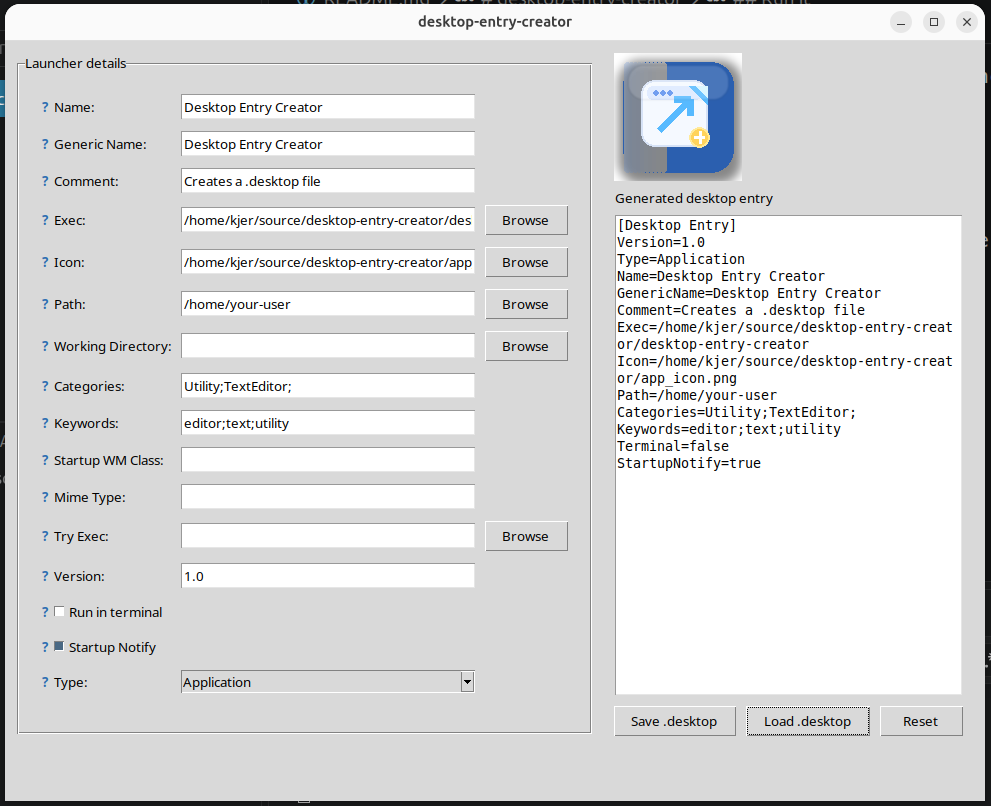
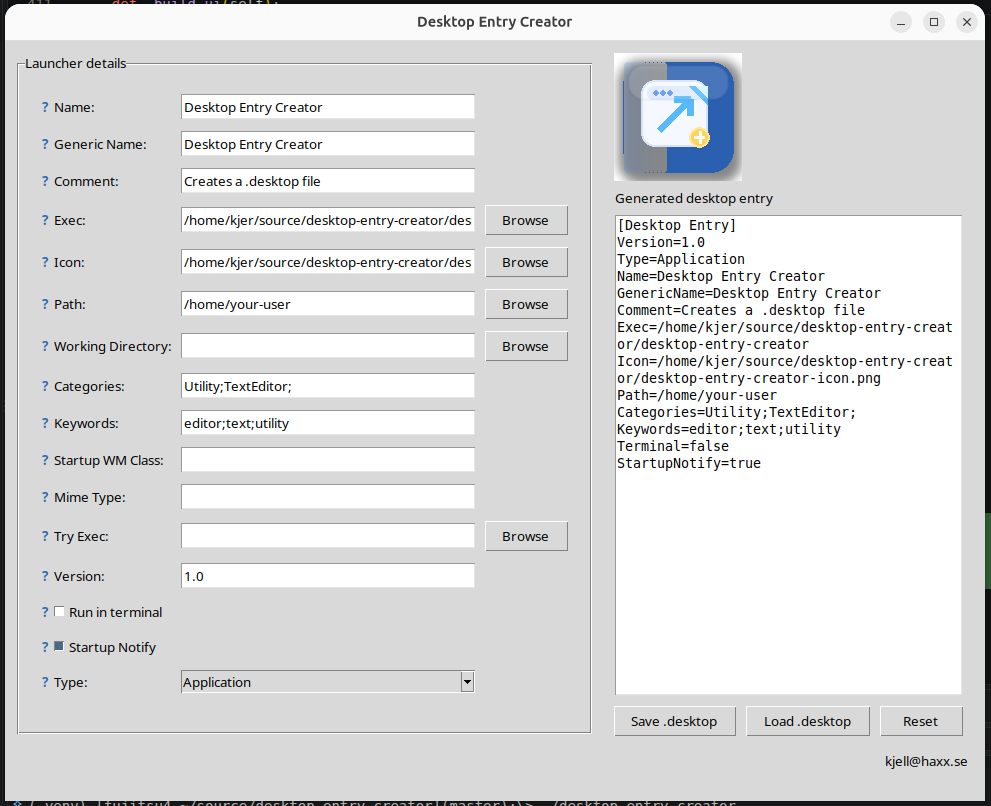
change layout

diff --git a/desktop_entry_creator.py b/desktop_entry_creator.py
@@ -16,7 +16,7 @@ ICON_DISPLAY_SIZE = 128
 class DesktopEntryCreatorApp:
     def __init__(self, root: tk.Tk):
         self.root = root
-        self.root.title("desktop-entry-creator")
+        self.root.title("Desktop Entry Creator")
         self.root.geometry("980x760")
         self.root.minsize(900, 700)
 
@@ -509,6 +509,10 @@ class DesktopEntryCreatorApp:
             row=0, column=1, sticky="ew", padx=(5, 5))
         ttk.Button(buttons, text="Reset", command=self._reset_form).grid(
             row=0, column=2, sticky="ew", padx=(5, 0))
+
+        footer_label = ttk.Label(main, text="kjell@haxx.se")
+        footer_label.grid(row=1, column=0, columnspan=2,
+                          sticky="e", padx=(0, 4), pady=(4, 0))
 
         self.preview.bind("<KeyRelease>", self._on_preview_edit)
 
